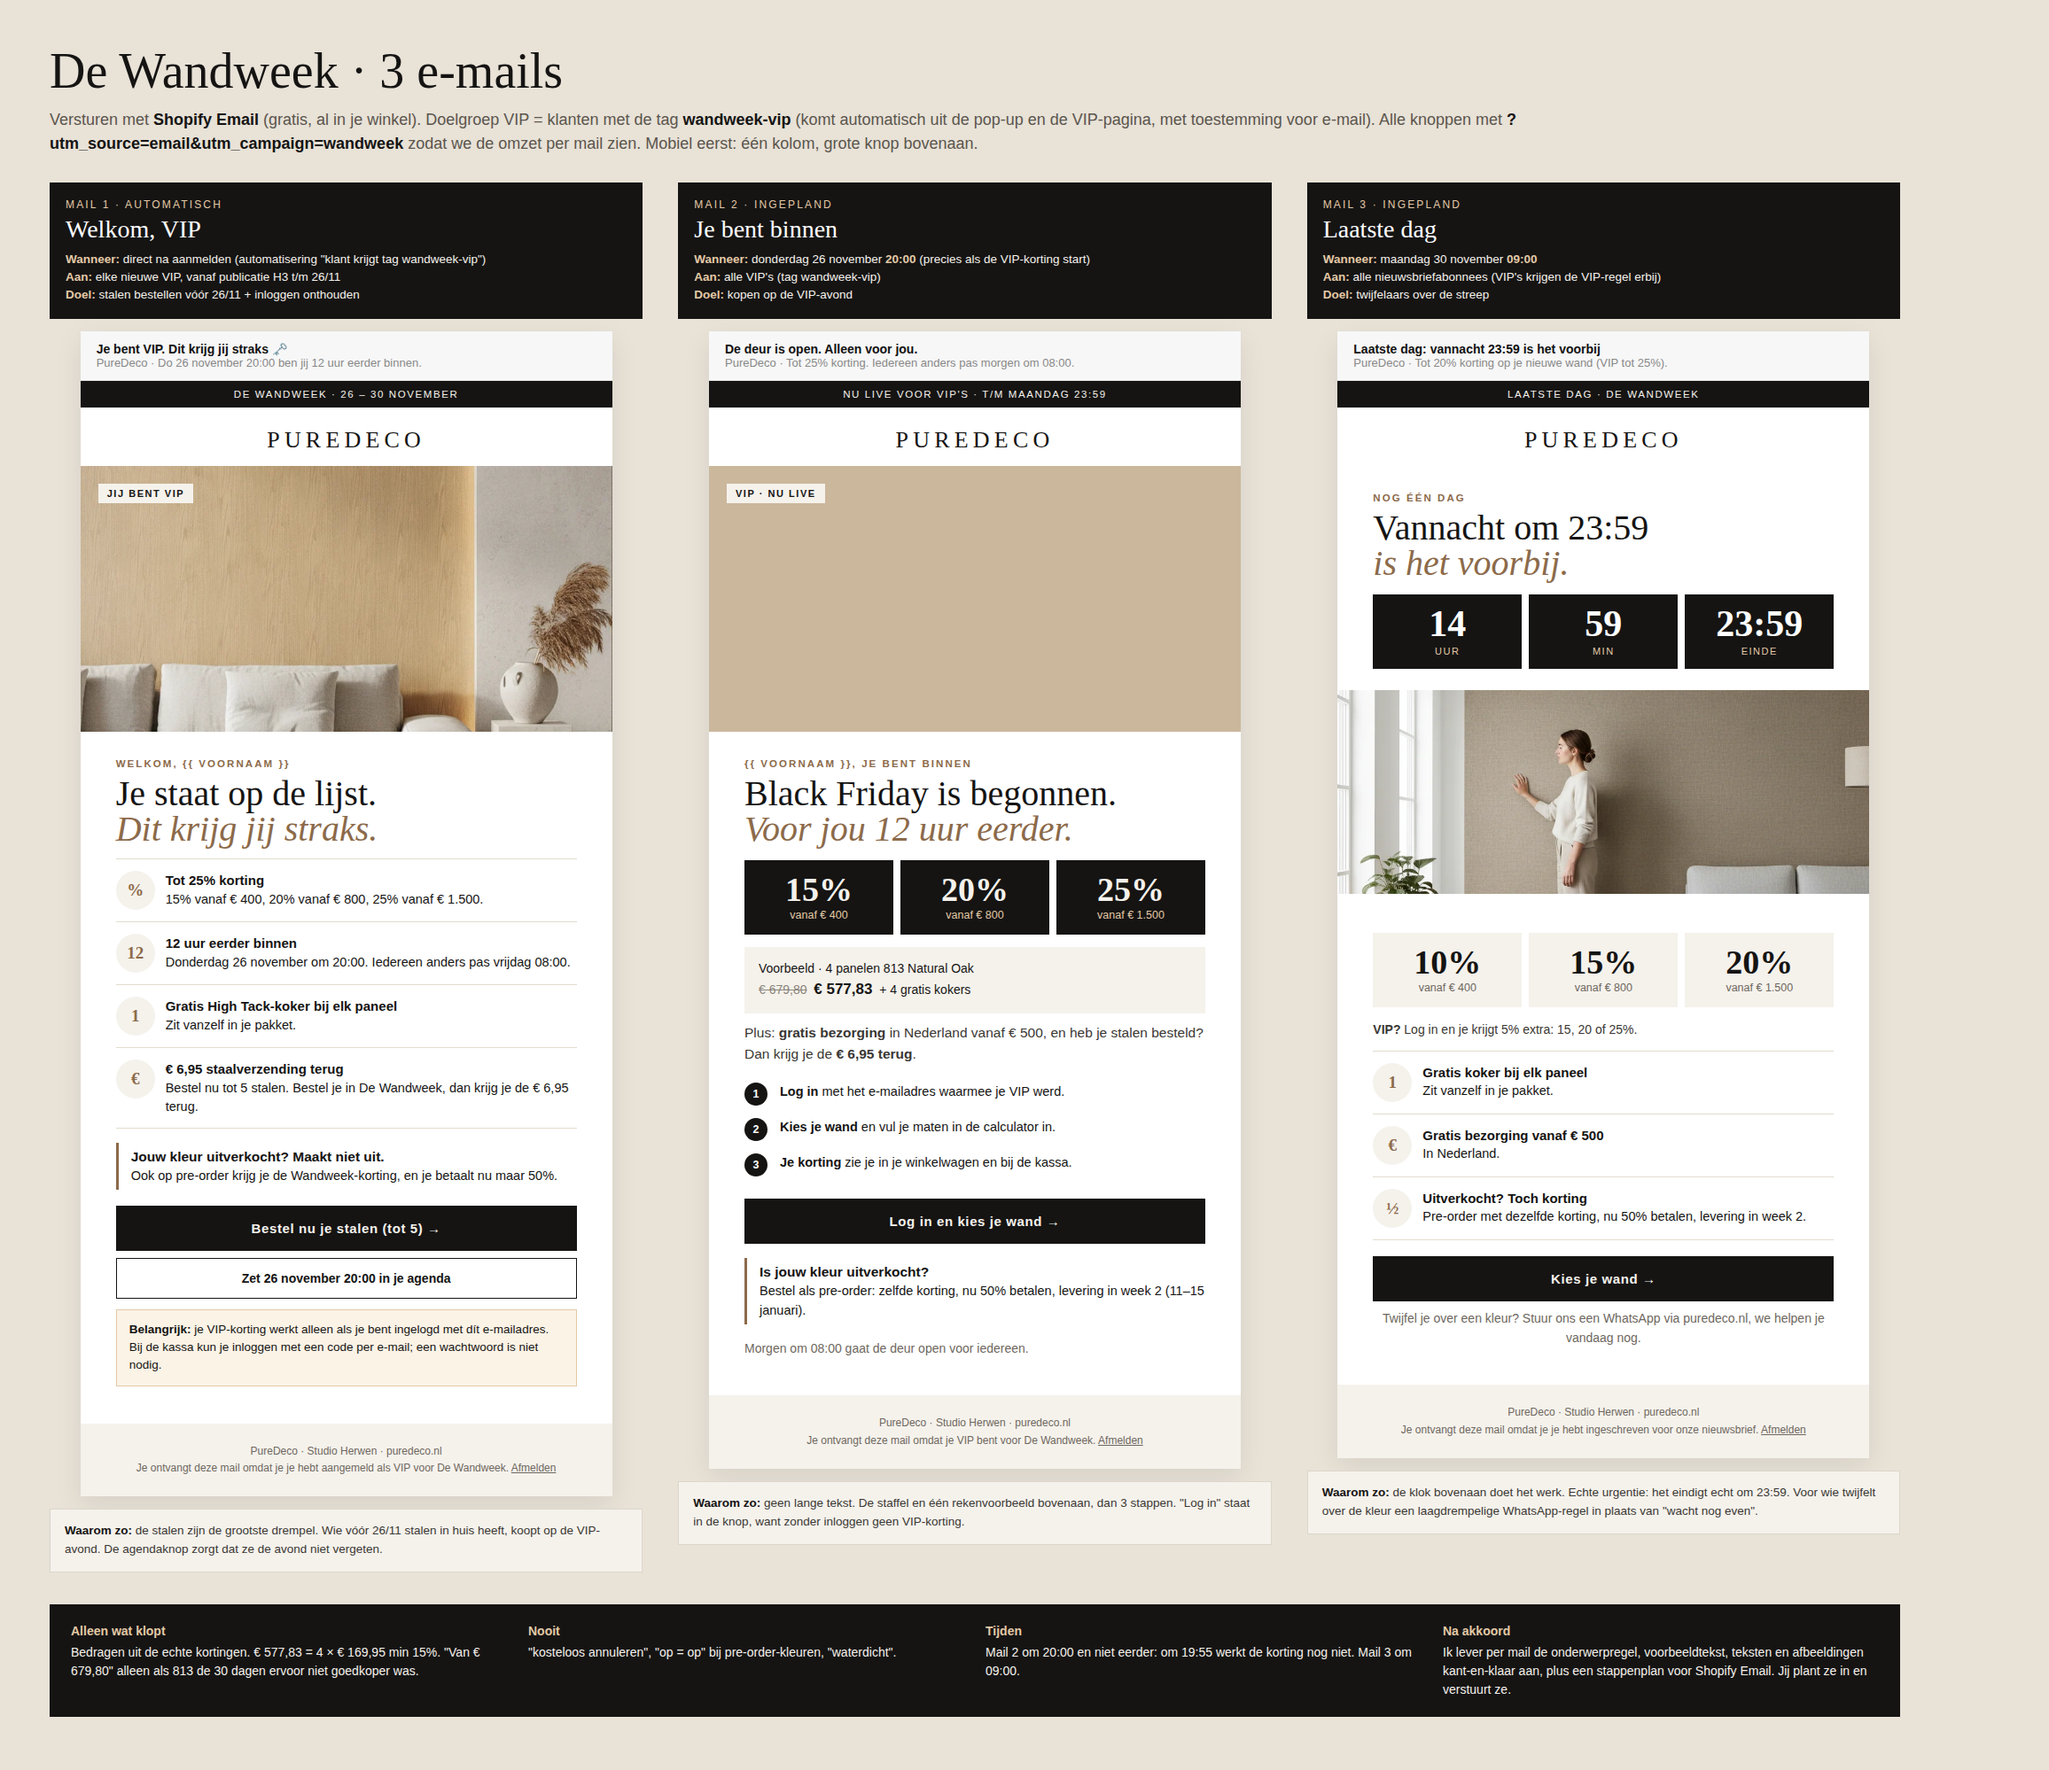
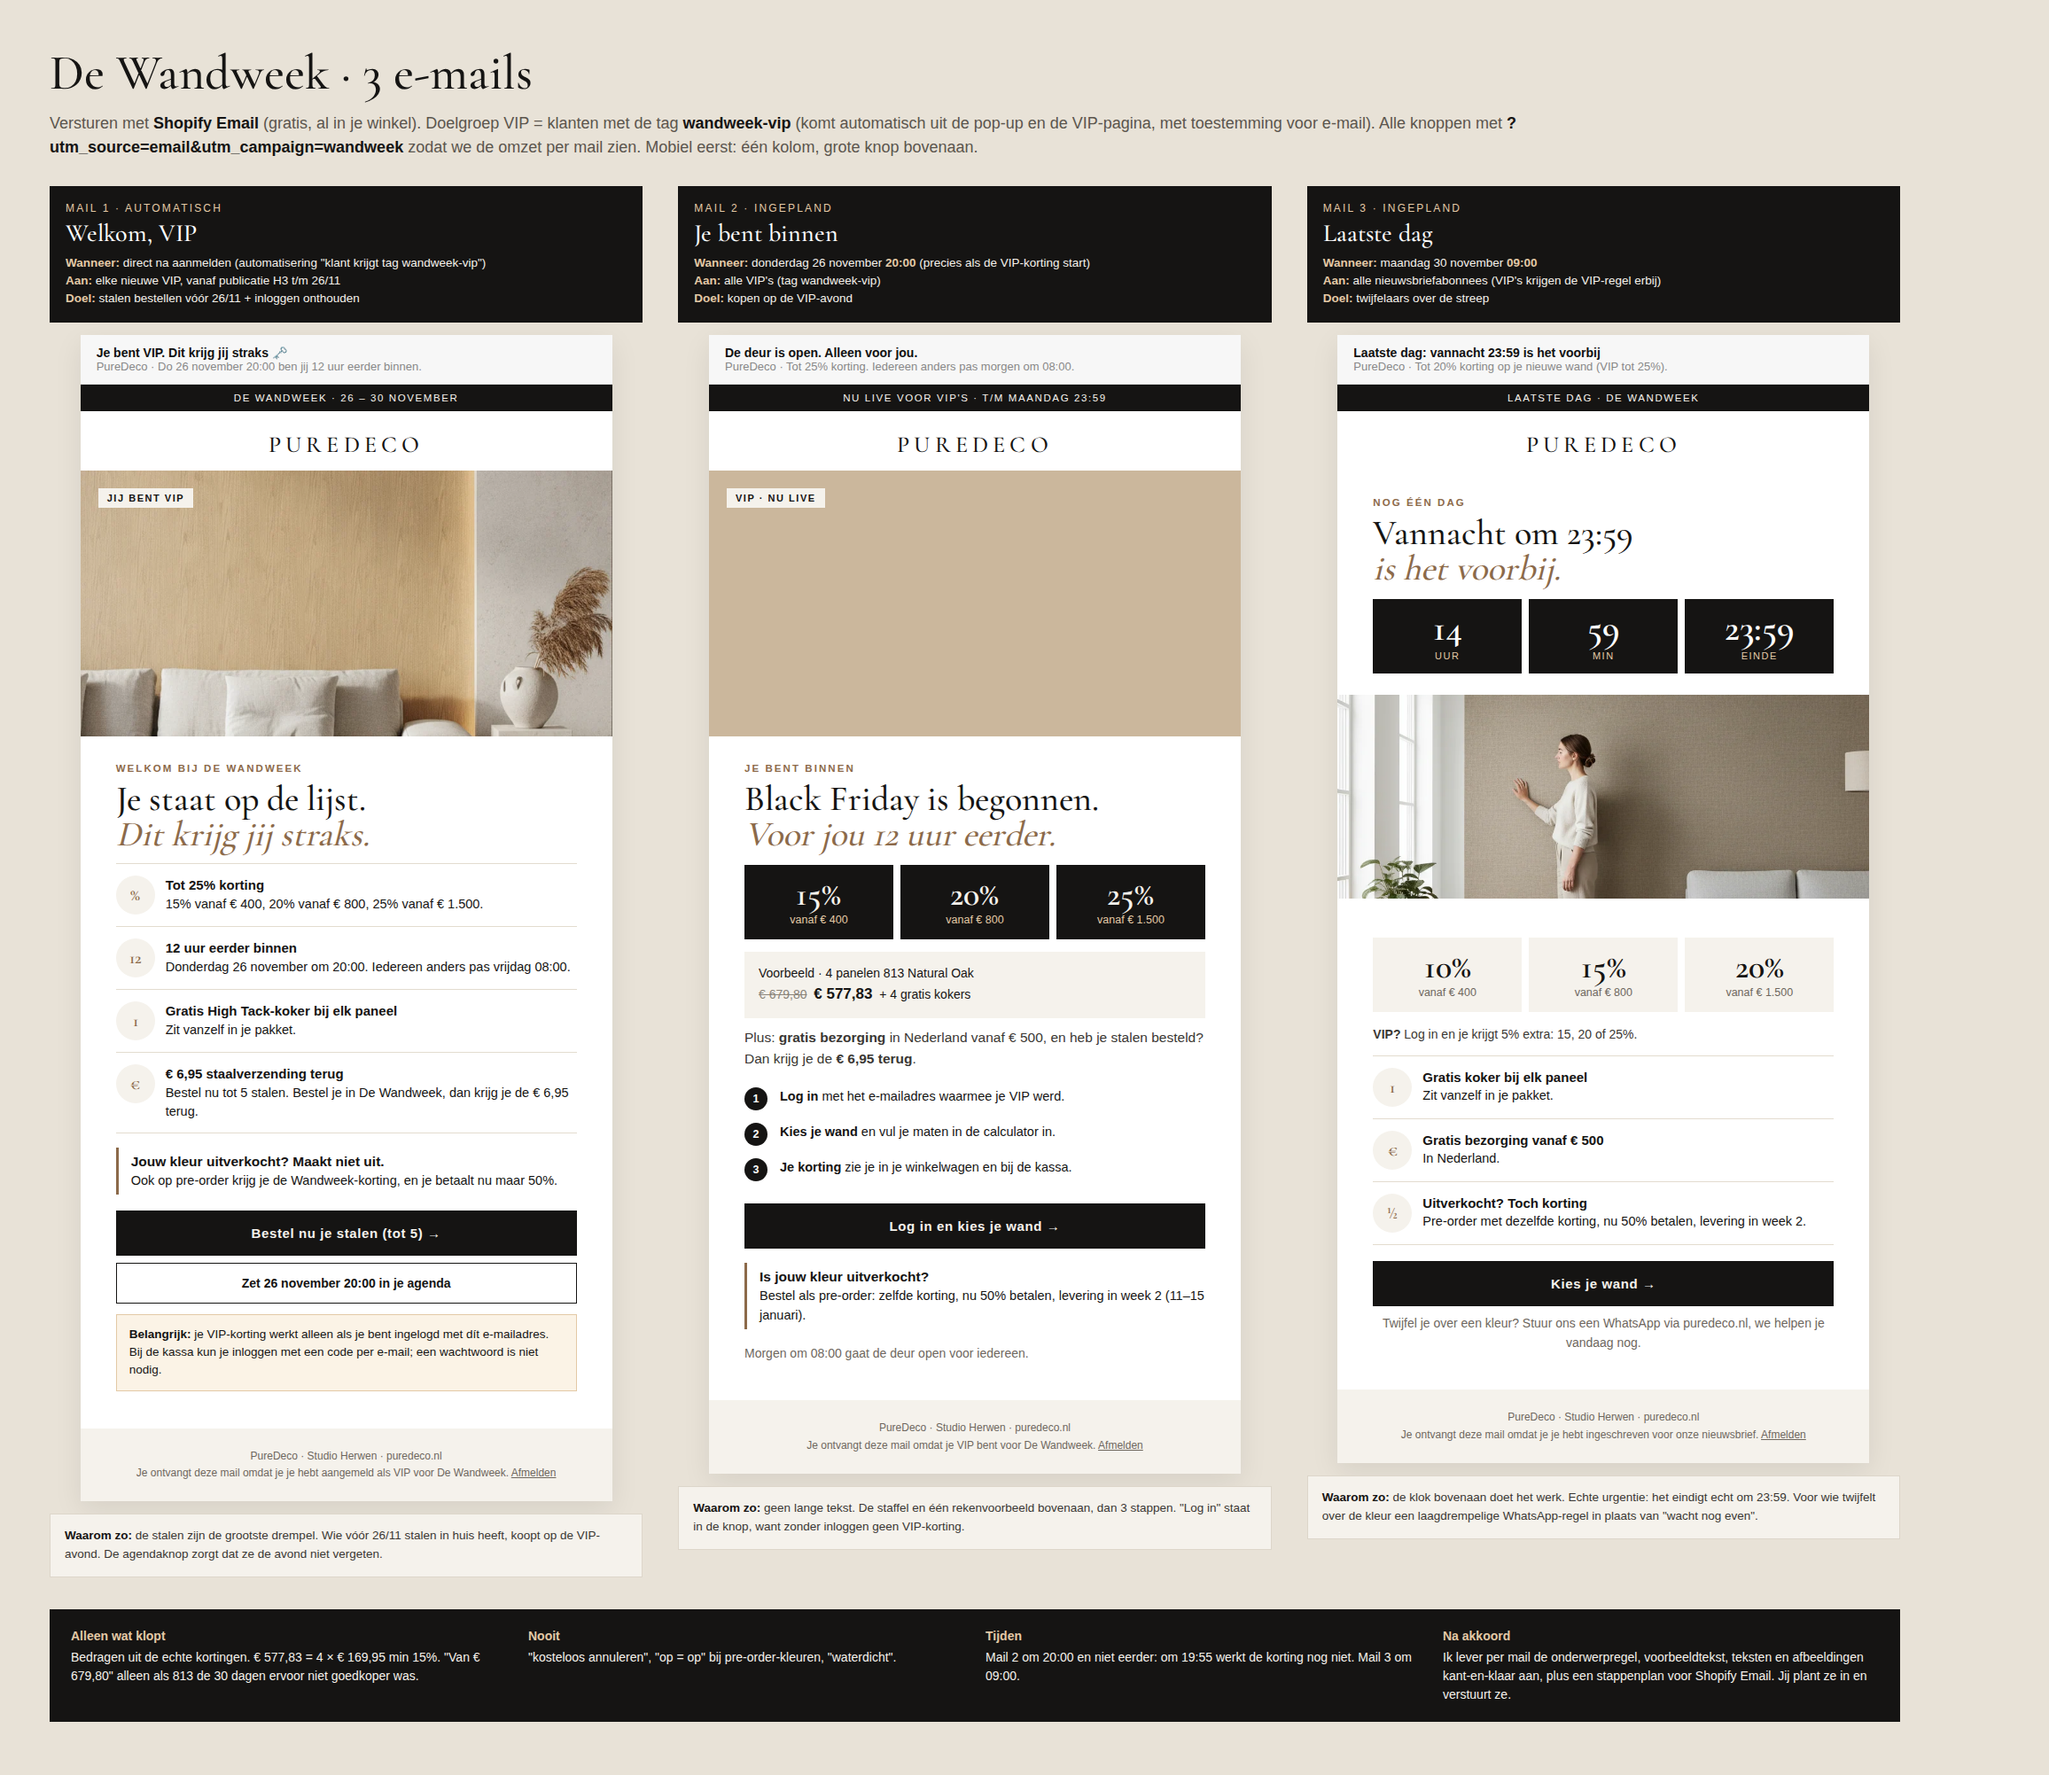
Wandweek-mails: kant-en-klare instructie Shopify Email/Flow, agendabestand, aanhef zonder voornaam
Claude-Session: https://claude.ai/code/session_01Tr9HDAqx5rbsuHBhnEqEEG

diff --git a/docs/ontwerp-puredeco-finish/black-friday/mails/mails-artboard.html b/docs/ontwerp-puredeco-finish/black-friday/mails/mails-artboard.html
@@ -70,7 +70,7 @@ p.tx{font-size:15.5px;line-height:1.6;color:#3A3733;margin-bottom:12px}
 <div class="logo">PUREDECO</div>
 <div class="hero" style="background-image:url('https://cdn.shopify.com/s/files/1/0940/4075/2394/files/generated_2Fshopify_3Af9yvx9-zm.myshopify.com_2F1793565871079_0.png?v=1793565889&width=1200')"><span class="tag">Jij bent VIP</span></div>
 <div class="pad">
-<p class="k">Welkom, {{ voornaam }}</p>
+<p class="k">Welkom bij De Wandweek</p>
 <p class="h">Je staat op de lijst.<br><em>Dit krijg jij straks.</em></p>
 <div class="perks">
 <div class="perk"><i>%</i><div><b>Tot 25% korting</b>15% vanaf € 400, 20% vanaf € 800, 25% vanaf € 1.500.</div></div>
@@ -100,7 +100,7 @@ p.tx{font-size:15.5px;line-height:1.6;color:#3A3733;margin-bottom:12px}
 <div class="logo">PUREDECO</div>
 <div class="hero" style="background-image:url('https://cdn.shopify.com/s/files/1/0940/4075/2394/files/bamboepanelen-hout-813-natural-oak-detail.jpg?v=1793440327&width=1200')"><span class="tag">VIP · nu live</span></div>
 <div class="pad">
-<p class="k">{{ voornaam }}, je bent binnen</p>
+<p class="k">Je bent binnen</p>
 <p class="h">Black Friday is begonnen.<br><em>Voor jou 12 uur eerder.</em></p>
 <div class="tiers dark">
 <div><b>15%</b><span>vanaf € 400</span></div>

diff --git a/docs/ontwerp-puredeco-finish/black-friday/mails/Mails-klaarzetten.md b/docs/ontwerp-puredeco-finish/black-friday/mails/Mails-klaarzetten.md
@@ -1,0 +1,113 @@
+# De Wandweek · mails klaarzetten in Shopify Email
+
+Alles staat klaar. Jij hoeft alleen te **kopiëren, plakken en inplannen** (± 10 minuten per mail). Shopify laat het aanmaken van mails niet via een koppeling toe, daarom moet dit ene stukje in het beheer.
+
+**Al geregeld (door Claude):**
+- Doelgroep **"Wandweek VIP 2026"** bestaat (iedereen met tag `wandweek-vip`). Shopify Email stuurt alleen naar wie toestemming heeft gegeven.
+- Agendabestand in Shopify Files: `https://cdn.shopify.com/s/files/1/0940/4075/2394/files/wandweek-vip-avond.ics?v=1793632217` (do 26/11 20:00–23:00, herinnering 15 min vooraf).
+- Alle afbeeldingen staan al in Shopify Files (zie per mail).
+- Alle kortingen staan ingepland; in de mail hoeft geen code.
+
+**Algemeen voor alle 3:** Shopify-beheer → **Marketing → Campagnes → Campagne maken → Shopify Email** → kies een lege template. Afzendernaam: **PureDeco**. Kleuren (Thema-instellingen in de editor): tekst `#151413`, knop `#151413` met witte tekst, achtergrond secties `#F5F2EC`.
+
+---
+
+## Mail 1 · Welkom, VIP (automatisch)
+
+Deze verstuurt zichzelf zodra iemand VIP wordt. Dat gaat via **Shopify Flow** (gratis app van Shopify).
+
+**Stap A · e-mail maken:** Shopify-beheer → **Marketing → Automatiseringen → Automatisering maken → Aangepaste automatisering maken** (opent Flow).
+1. **Trigger:** "Customer tags added" (Klanttags toegevoegd).
+2. **Voorwaarde:** "Customer tags" bevat `wandweek-vip`.
+3. **Actie:** "Send marketing email" (Marketingmail verzenden) → **Mail bewerken** en vul in zoals hieronder.
+4. **Activeren.**
+5. **Testen:** meld je op de site aan als VIP met een e-mailadres dat nog niet in de winkel staat. Komt mail 1 binnen een paar minuten? Klaar. Komt hij niet, verander dan de trigger in **"Customer created"** (Klant aangemaakt) met dezelfde voorwaarde.
+
+| Veld | Tekst |
+|---|---|
+| Onderwerp | Je bent VIP. Dit krijg jij straks 🗝 |
+| Voorbeeldtekst | Do 26 november 20:00 ben jij 12 uur eerder binnen. |
+
+Blokken van boven naar beneden:
+
+1. **Tekst (klein, gecentreerd, zwarte balk):** DE WANDWEEK · 26 – 30 NOVEMBER
+2. **Kop / logo:** PureDeco-logo
+3. **Afbeelding:** uit Bestanden: `generated_2Fshopify_3Af9yvx9-zm.myshopify.com_2F1793565871079_0.png` (lichte wand met bank)
+4. **Tekst (klein, bruin, hoofdletters):** WELKOM BIJ DE WANDWEEK
+5. **Kop:** Je staat op de lijst. Dit krijg jij straks.
+6. **Tekst:**
+   - **Tot 25% korting.** 15% vanaf € 400, 20% vanaf € 800, 25% vanaf € 1.500.
+   - **12 uur eerder binnen.** Donderdag 26 november om 20:00. Iedereen anders pas vrijdag 08:00.
+   - **Gratis High Tack-koker bij elk paneel.** Zit vanzelf in je pakket.
+   - **€ 6,95 staalverzending terug.** Bestel nu tot 5 stalen. Bestel je in De Wandweek, dan krijg je de € 6,95 terug.
+7. **Tekst:** **Jouw kleur uitverkocht? Maakt niet uit.** Ook op pre-order krijg je de Wandweek-korting, en je betaalt nu maar 50%.
+8. **Knop:** Bestel nu je stalen (tot 5) → `https://puredeco.nl/pages/sample?utm_source=email&utm_medium=email&utm_campaign=wandweek&utm_content=welkom-stalen`
+9. **Knop (omlijnd):** Zet 26 november 20:00 in je agenda → `https://cdn.shopify.com/s/files/1/0940/4075/2394/files/wandweek-vip-avond.ics?v=1793632217`
+10. **Tekst (lichtbeige vlak):** **Belangrijk:** je VIP-korting werkt alleen als je bent ingelogd met dít e-mailadres. Inloggen gaat met een code per e-mail, een wachtwoord is niet nodig.
+
+**Stap B · ook de VIP's van vóór de automatisering:** wie zich al aanmeldde vóór je de Flow activeerde, krijgt mail 1 niet. Stuur die eenmalig als campagne naar doelgroep "Wandweek VIP 2026" (zelfde inhoud).
+
+---
+
+## Mail 2 · Je bent binnen (ingepland)
+
+**Marketing → Campagne maken → Shopify Email.**
+
+| Veld | Tekst |
+|---|---|
+| Aan | Doelgroep **Wandweek VIP 2026** |
+| Onderwerp | De deur is open. Alleen voor jou. |
+| Voorbeeldtekst | Tot 25% korting. Iedereen anders pas morgen om 08:00. |
+| Inplannen | **donderdag 26 november 2026, 20:00** (niet eerder: dan werkt de korting nog niet) |
+
+Blokken:
+
+1. **Tekst (zwarte balk):** NU LIVE VOOR VIP'S · T/M MAANDAG 23:59
+2. **Kop / logo:** PureDeco-logo
+3. **Afbeelding:** uit Bestanden: `bamboepanelen-hout-813-natural-oak-detail.jpg`
+4. **Tekst (klein, bruin):** JE BENT BINNEN
+5. **Kop:** Black Friday is begonnen. Voor jou 12 uur eerder.
+6. **Tekst (groot, drie kolommen of drie regels):** **15%** vanaf € 400 · **20%** vanaf € 800 · **25%** vanaf € 1.500
+7. **Tekst (beige vlak):** Voorbeeld · 4 panelen 813 Natural Oak: ~~€ 679,80~~ **€ 577,83** + 4 gratis kokers
+8. **Tekst:** Plus: **gratis bezorging** in Nederland vanaf € 500. Heb je stalen besteld? Dan krijg je de **€ 6,95 terug**.
+9. **Tekst:**
+   1. **Log in** met het e-mailadres waarmee je VIP werd.
+   2. **Kies je wand** en vul je maten in de calculator in.
+   3. **Je korting** zie je in je winkelwagen en bij de kassa.
+10. **Knop:** Log in en kies je wand → `https://puredeco.nl/customer_authentication/login?return_to=%2Fcollections%2Fwandpanelen%3Futm_source%3Demail%26utm_medium%3Demail%26utm_campaign%3Dwandweek%26utm_content%3Dvip-live`
+11. **Tekst:** **Is jouw kleur uitverkocht?** Bestel als pre-order: zelfde korting, nu 50% betalen, levering in week 2 (11–15 januari).
+12. **Tekst (klein, grijs):** Morgen om 08:00 gaat de deur open voor iedereen.
+
+---
+
+## Mail 3 · Laatste dag (ingepland)
+
+| Veld | Tekst |
+|---|---|
+| Aan | Doelgroep **E-mailabonnees** (bestaat al) |
+| Onderwerp | Laatste dag: vannacht 23:59 is het voorbij |
+| Voorbeeldtekst | Tot 20% korting op je nieuwe wand (VIP tot 25%). |
+| Inplannen | **maandag 30 november 2026, 09:00** |
+
+Blokken:
+
+1. **Tekst (zwarte balk):** LAATSTE DAG · DE WANDWEEK
+2. **Kop / logo:** PureDeco-logo
+3. **Tekst (klein, bruin):** NOG ÉÉN DAG
+4. **Kop:** Vannacht om 23:59 is het voorbij.
+5. **Afbeelding:** uit Bestanden: `generated_2Fshopify_3Af9yvx9-zm.myshopify.com_2F1776693455240_0.png` (vrouw bij wand)
+6. **Tekst (groot):** **10%** vanaf € 400 · **15%** vanaf € 800 · **20%** vanaf € 1.500
+7. **Tekst:** **VIP?** Log in en je krijgt 5% extra: 15, 20 of 25%.
+8. **Tekst:**
+   - **Gratis koker bij elk paneel.** Zit vanzelf in je pakket.
+   - **Gratis bezorging vanaf € 500.** In Nederland.
+   - **Uitverkocht? Toch korting.** Pre-order met dezelfde korting, nu 50% betalen, levering in week 2.
+9. **Knop:** Kies je wand → `https://puredeco.nl/collections/wandpanelen?utm_source=email&utm_medium=email&utm_campaign=wandweek&utm_content=laatste-dag`
+10. **Tekst (klein, gecentreerd):** Twijfel je over een kleur? Stuur ons een WhatsApp via puredeco.nl, we helpen je vandaag nog.
+
+---
+
+## Controle vóór verzenden (per mail)
+- **Testmail** naar jezelf sturen (knop "Test versturen") en op je telefoon bekijken.
+- Klik elke knop één keer aan.
+- Mail 2: na het inloggen moet je op de collectie wandpanelen uitkomen. Zo niet, laat het Claude weten.
